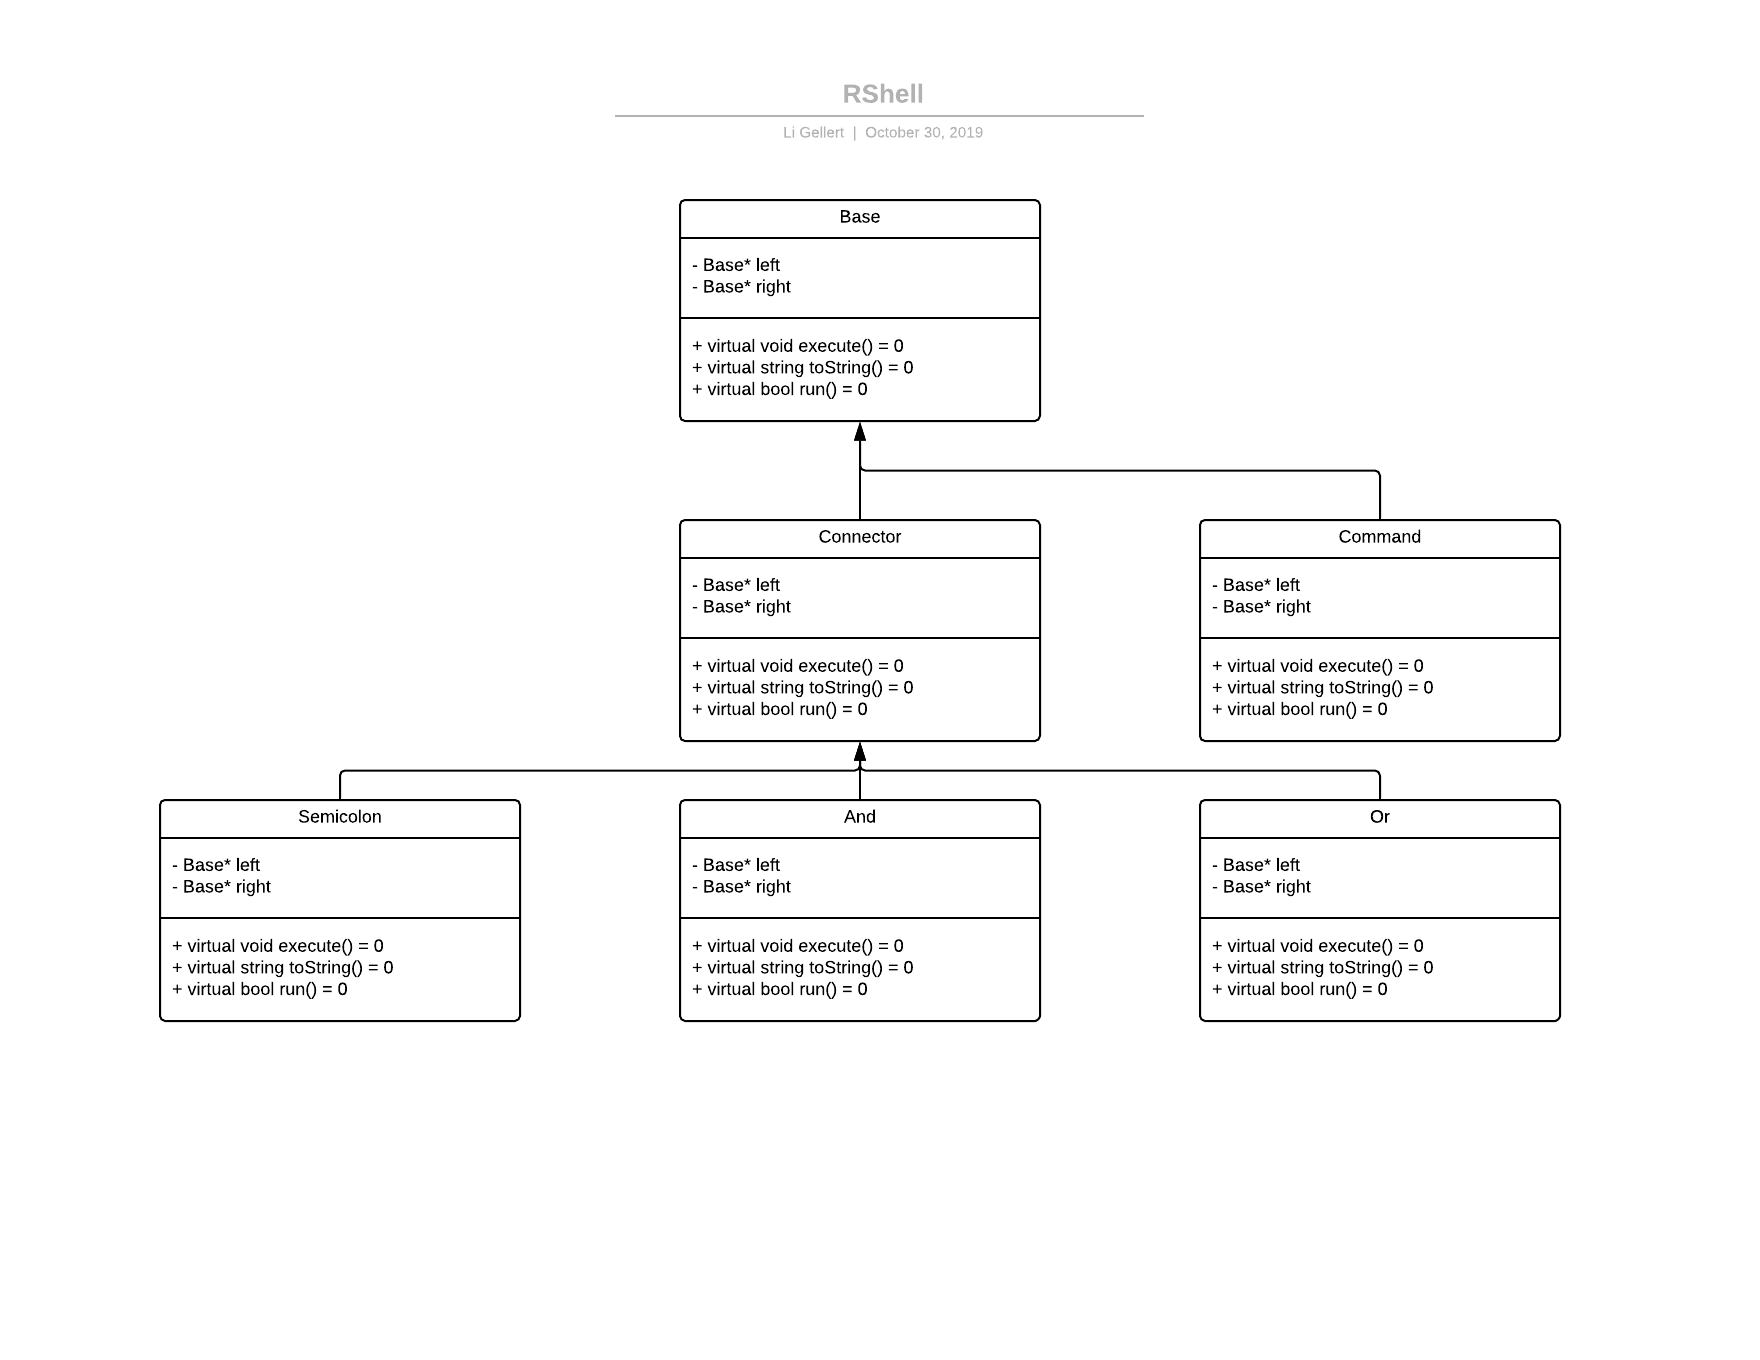
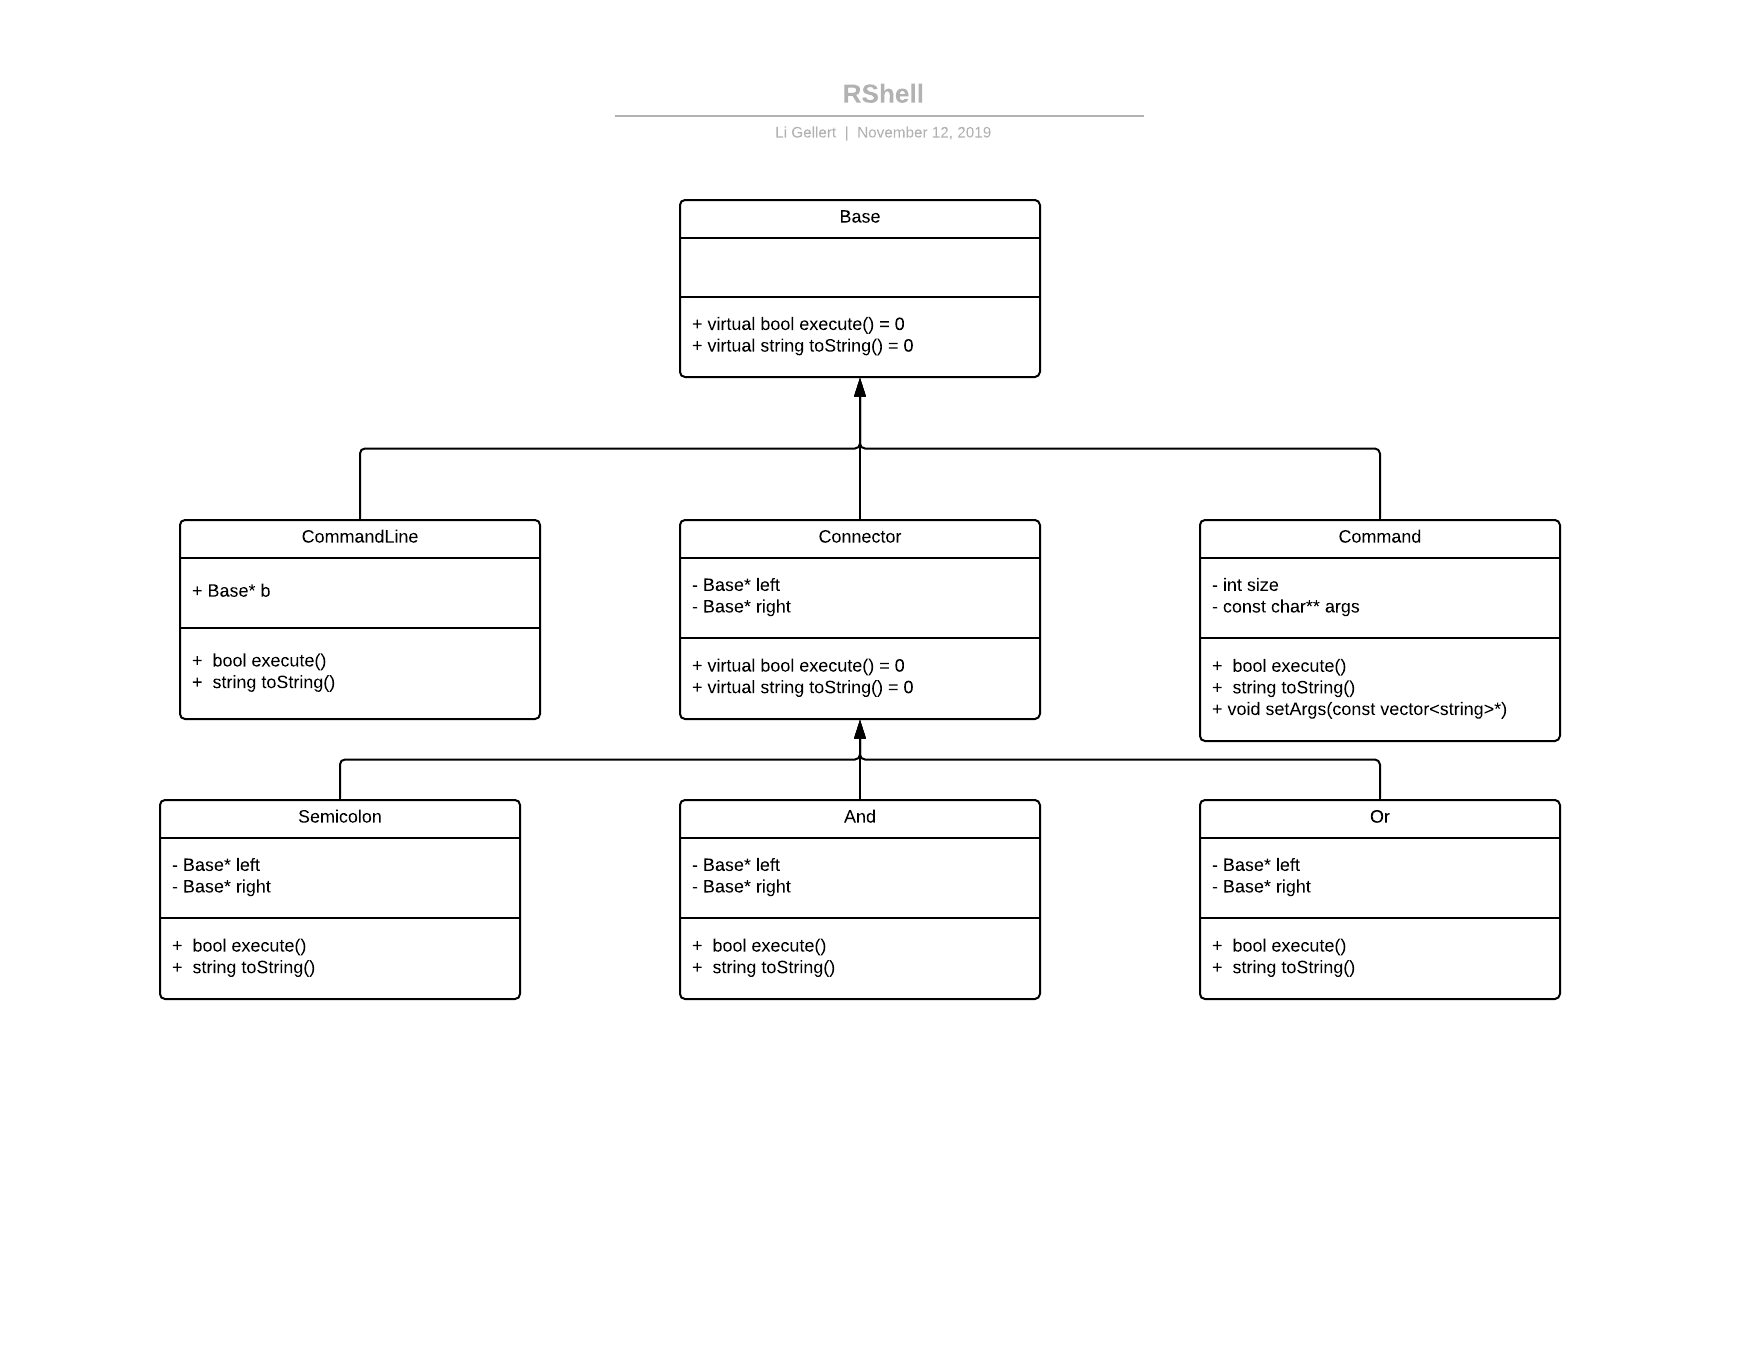
updated readme

diff --git a/README.md b/README.md
@@ -28,8 +28,14 @@ The Connector class is a base class for all connectors such as "; || &&".
 ## Semicolon, And, Or
 These are derived classes from Connector which will have different implementation for execute() function.
 
+## CommandLine
+A class that holds all Command in a `Base*` array.<br>
+The public variable `b` will point to the root node.<br>
+The overall structure will be a binary tree with leaves being Command, and it will be executed using inorder traversal.
+
 ## Command
-The actual command string itself, such as "ls" or "cat".
+The actual command string itself, such as "ls" or "cat". <br>
+This class has a `char**` which contains the command argument, and it will be populated by a `vector<string>`
 > Note: only commands under /bin is available in this version of shell.
 
 
